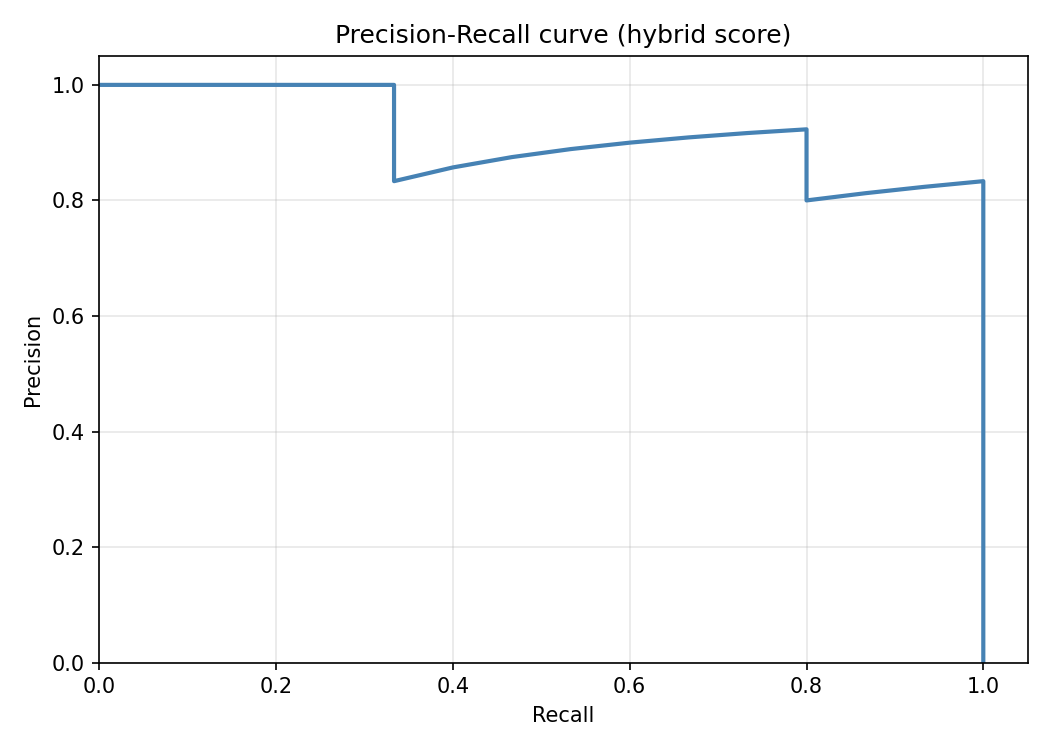
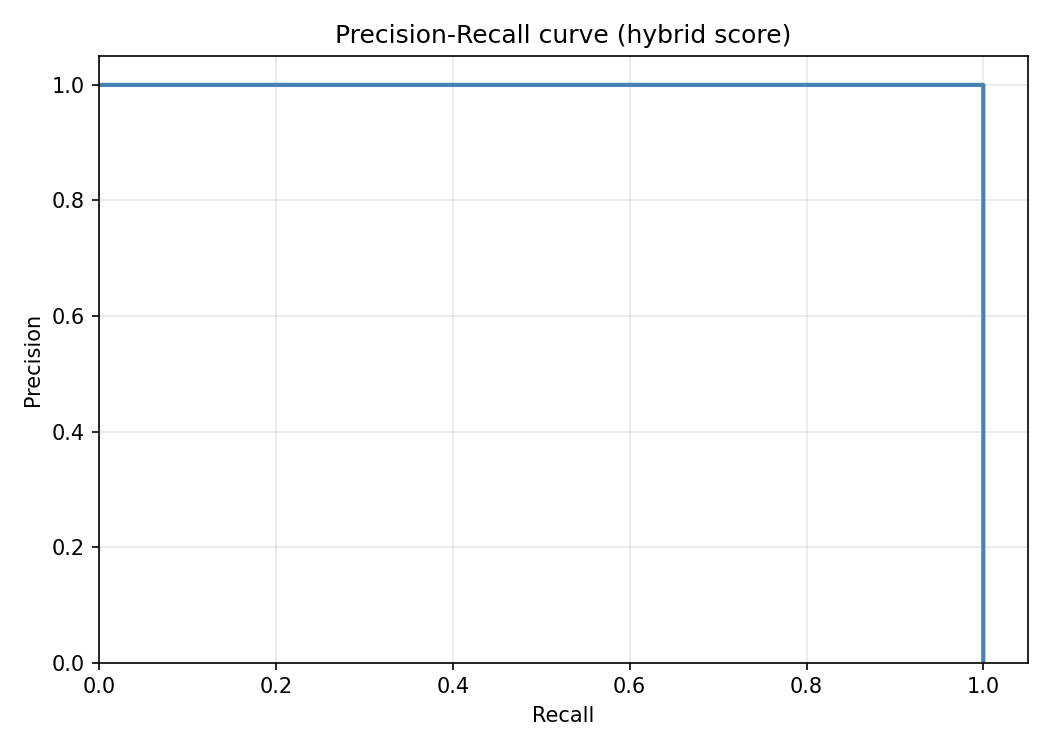
Optimize for Render: pre-fit scaler, shrink dataset

Changed region(s): [[0.3657, 0.092, 0.9448, 0.2453], [0.64, 0.1533, 0.9143, 0.276], [0.4571, 0.184, 0.64, 0.2147]]

diff --git a/main.py b/main.py
@@ -84,25 +84,12 @@ def _creditcard_feature_columns() -> list[str]:
     return [f"V{i}" for i in range(1, 29)] + ["Amount"]
 
 
-def _fit_iso_minmax_scaler(
-    iso_model: IsolationForest,
-    amount_scaler: StandardScaler,
-    creditcard_path: Path,
-    max_rows: int = 100_000,
-) -> MinMaxScaler | None:
-    # Fit MinMaxScaler on -decision_function(train-like rows) so IF scores map to [0, 1] at inference (matches train.py evaluation spirit).
-    if not creditcard_path.is_file():
-        return None
-    usecols = [f"V{i}" for i in range(1, 29)] + ["Amount"]
-    df = pd.read_csv(creditcard_path, usecols=usecols, nrows=max_rows)
-    amt_scaled = amount_scaler.transform(df[["Amount"]].values)
-    X_ref = np.hstack(
-        [df[[f"V{i}" for i in range(1, 29)]].values.astype(np.float64), amt_scaled]
-    )
-    raw = -iso_model.decision_function(X_ref)
-    mm = MinMaxScaler()
-    mm.fit(raw.reshape(-1, 1))
-    return mm
+def _load_iso_norm_scaler() -> MinMaxScaler:
+    models_dir = _project_root() / "models"
+    scaler_path = models_dir / "iso_norm_scaler.pkl"
+    if not scaler_path.exists():
+        raise FileNotFoundError("iso_norm_scaler.pkl not found")
+    return joblib.load(scaler_path)
 
 
 def load_models_and_scaler(
@@ -659,11 +646,7 @@ async def _lifespan(app: FastAPI):
     app.state.shap_explainer = joblib.load(models_dir / "shap_explainer.pkl")
     app.state.threshold = float((models_dir / "threshold.txt").read_text(encoding="utf-8").strip())
 
-    app.state.iso_norm_scaler = _fit_iso_minmax_scaler(
-        iso_model,
-        scaler,
-        root / "data" / "creditcard.csv",
-    )
+    app.state.iso_norm_scaler = _load_iso_norm_scaler()
 
     chroma_client, fraud_collection = load_chroma_collection(
         chroma_dir,

diff --git a/train.py b/train.py
@@ -534,6 +534,15 @@ def main() -> None:
         joblib.dump(iso_model, models_dir / "iso_model.pkl")
         joblib.dump(amount_scaler, models_dir / "scaler.pkl")
         print("[MAIN] Models saved successfully")
+
+        # Fit MinMaxScaler on IsolationForest scores
+        print("[ISO] Fitting MinMaxScaler on training set scores")
+        X_train_scaled = X_train.to_numpy()
+        iso_train_scores = iso_model.decision_function(X_train_scaled)
+        iso_norm_scaler = MinMaxScaler()
+        iso_norm_scaler.fit(iso_train_scores.reshape(-1, 1))
+        joblib.dump(iso_norm_scaler, models_dir / "iso_norm_scaler.pkl")
+        print("[ISO] Saved iso_norm_scaler.pkl")
         
         # Run evaluation only during full training
         skip_evaluation = False